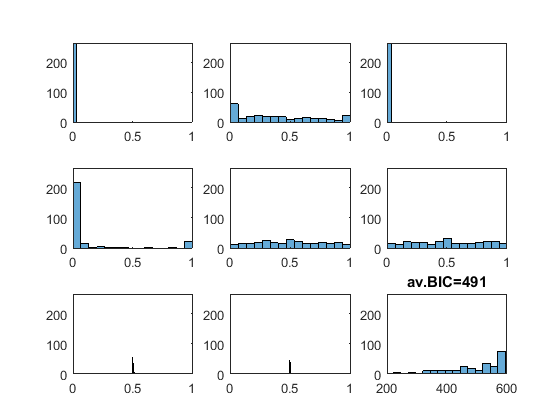
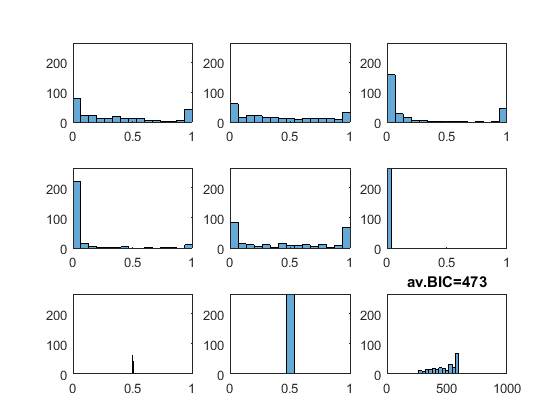
adding classes

diff --git a/MAIN.m b/MAIN.m
@@ -1,5 +1,5 @@
 
-%% TDs
+%% TODO
 % Basic data cleaning (remove too fast trials; remove nans; remove trials
 % where fract2 == -2; remove strokes with the same key more than x times)
 
@@ -18,7 +18,7 @@ if isnan(fit_model)
 end
 
 %% Prepare things
-[n_agents, n_fmincon_iterations, n_trials, file_dir] = determine_location_specifics(location);
+[n_datasets, n_fmincon_iterations, n_trials, file_dir] = determine_location_specifics(location);
 genrec_file_name = name_genrec_file(sim_model, fit_model);
 model_parameters = define_model_parameters;   % Which parameters will be fitted (-1) versus fixed (values) in each model (used for sim_par and fit_par)
 
@@ -30,8 +30,9 @@ switch sim_data
         sim_par = model_parameters(model_ID(sim_model),:);
         
         % Run simulations and save 
-        Data = simulate_task(n_agents, n_trials, sim_par, fractal_rewards, common);
+        Data = simulate_task(n_datasets, n_trials, sim_par, fractal_rewards, common);
         save(['data_' sim_model '_agents.mat'], 'Data')
+        dataset = Real_data(Data);
         
     case 'load'
         load(['data_' sim_model '_agents.mat'])
@@ -39,7 +40,8 @@ switch sim_data
     case 'real'
         files = dir(file_dir);
         file_index = find(~[files.isdir]);
-        n_agents = length(file_index);
+        n_datasets = length(file_index);
+        dataset = Real_data(file_dir, file_index, files);
 end
 
 
@@ -53,13 +55,24 @@ if fit_data
     [pmin, pmax, par0, n_fit, n_params] = get_fmincon_stuff(fit_par);
     
     %%% Create genrec, which will hold (true and) fitted parameters for each agent
-    clear genrec
-    genrec = zeros(n_agents, 2 * n_params + 7);
+    genrec = zeros(n_datasets, 2 * n_params + 7);
     
-    for agent = 1:n_agents
+    for i_dataset = 1:n_datasets
 
+        [Agent, agentID, runID] = dataset.get_data(i_dataset);
+        
         %%% Select data of one agent (called "Agent")
-        [Agent, agentID, runID] = get_agent_data(sim_data, agent, files, file_index, file_dir);
+        if strcmp(sim_data, 'real')
+            file_name = files(file_index(i_dataset)).name;
+            [Agent, agentID, runID] = get_real_data(file_dir, file_name);
+        else
+            data_columns;   % Find out which columns contain what
+            agent_rows = Data(:, AgentID_c) == i_dataset;
+            Agent = Data(agent_rows, :);
+            agentID = i_dataset;
+            runID = nan;
+        end
+        
 
         %%% Find paramater values that minimize the negative log likelihood of agent data
         object_fun = @(par)computeNLL(Agent, par, n_fit, 'NLL', common, sim_data, fit_model);   % define function whose minimum will be found
@@ -67,12 +80,12 @@ if fit_data
         NLLBICAIC = computeNLL(Agent, fit_params, n_fit, 'all', common, sim_data, fit_model);   % calculate NLL, BIC, and AIC for the found parameter values
 
         %%% Save generated (simulated) and recovered (fitted) values in genrec
-        genrec = save_results_to_genrec(genrec, agent, Agent, agentID, runID, fit_params, NLLBICAIC, sim_data, n_params);
+        genrec = save_results_to_genrec(genrec, i_dataset, Agent, agentID, runID, fit_params, NLLBICAIC, sim_data, n_params);
         
         %%% Save genrec to disk; print agent number to the console to check where we are
-        if mod(agent, 5) == 1
+        if mod(i_dataset, 5) == 1
             save(genrec_file_name, 'genrec')
-            agent
+            i_dataset
         end
     end
     
